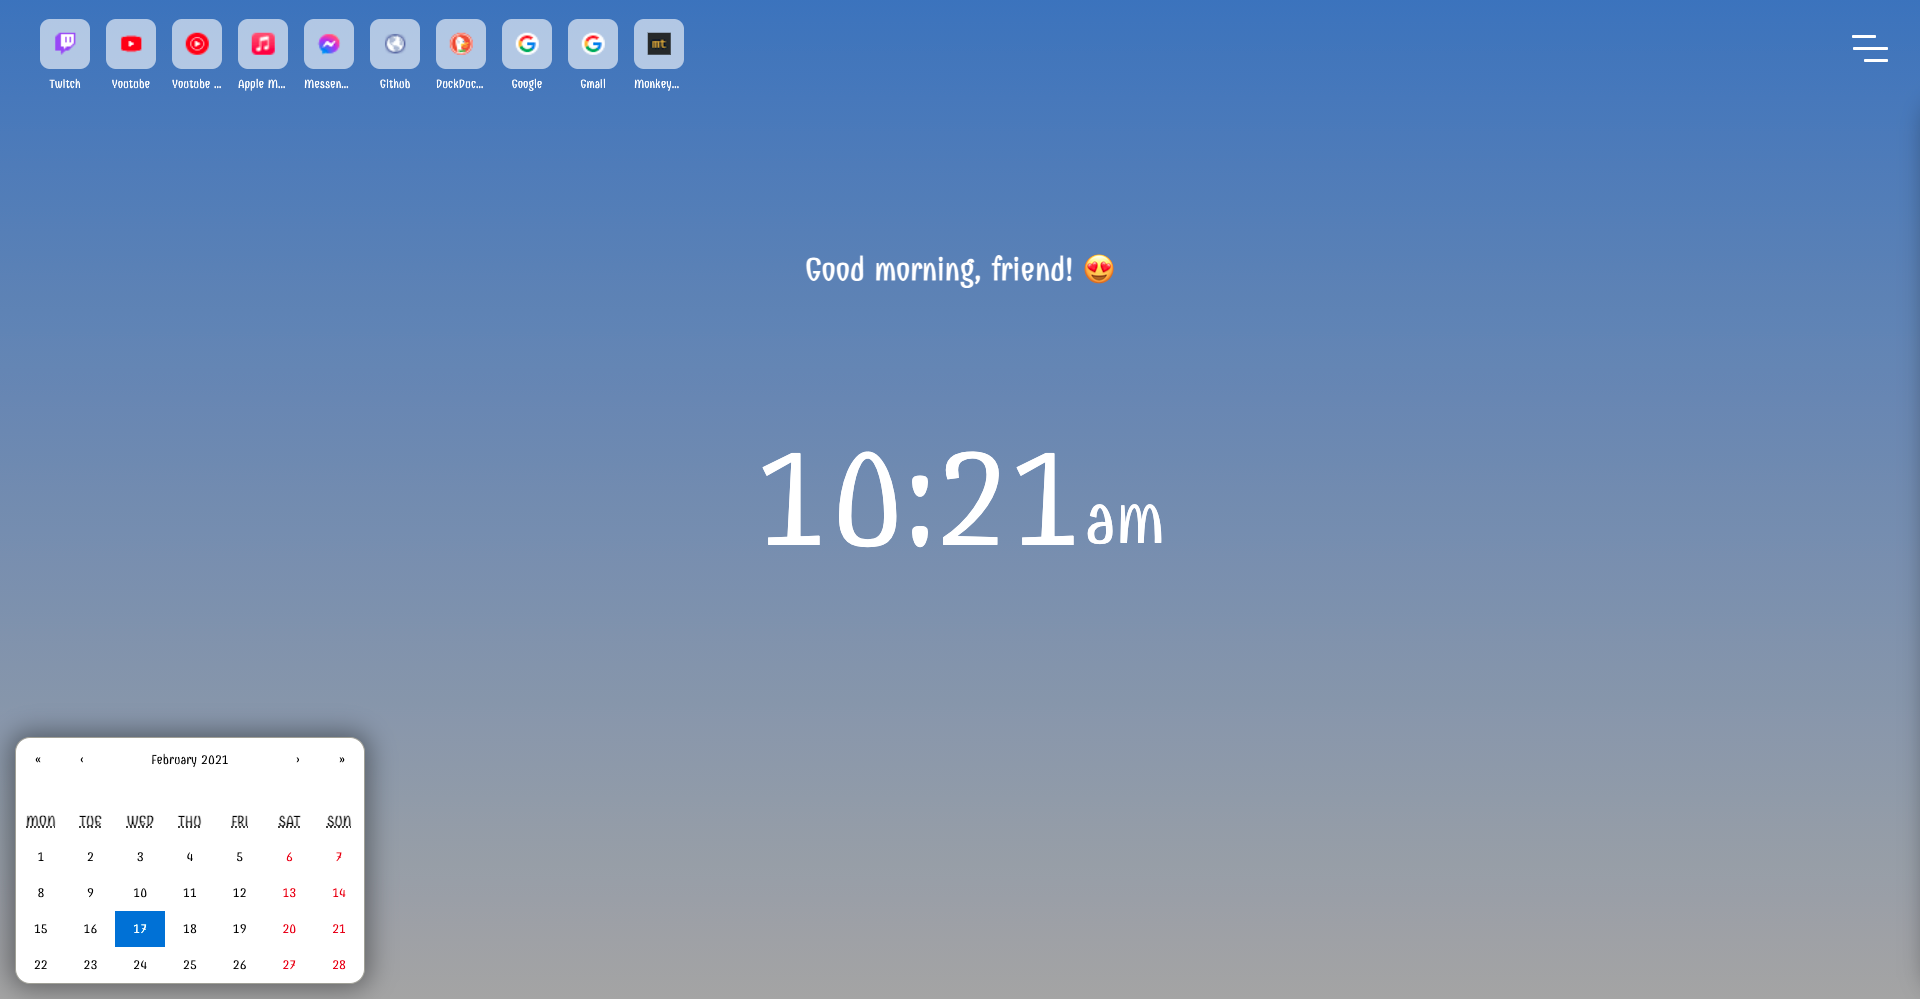
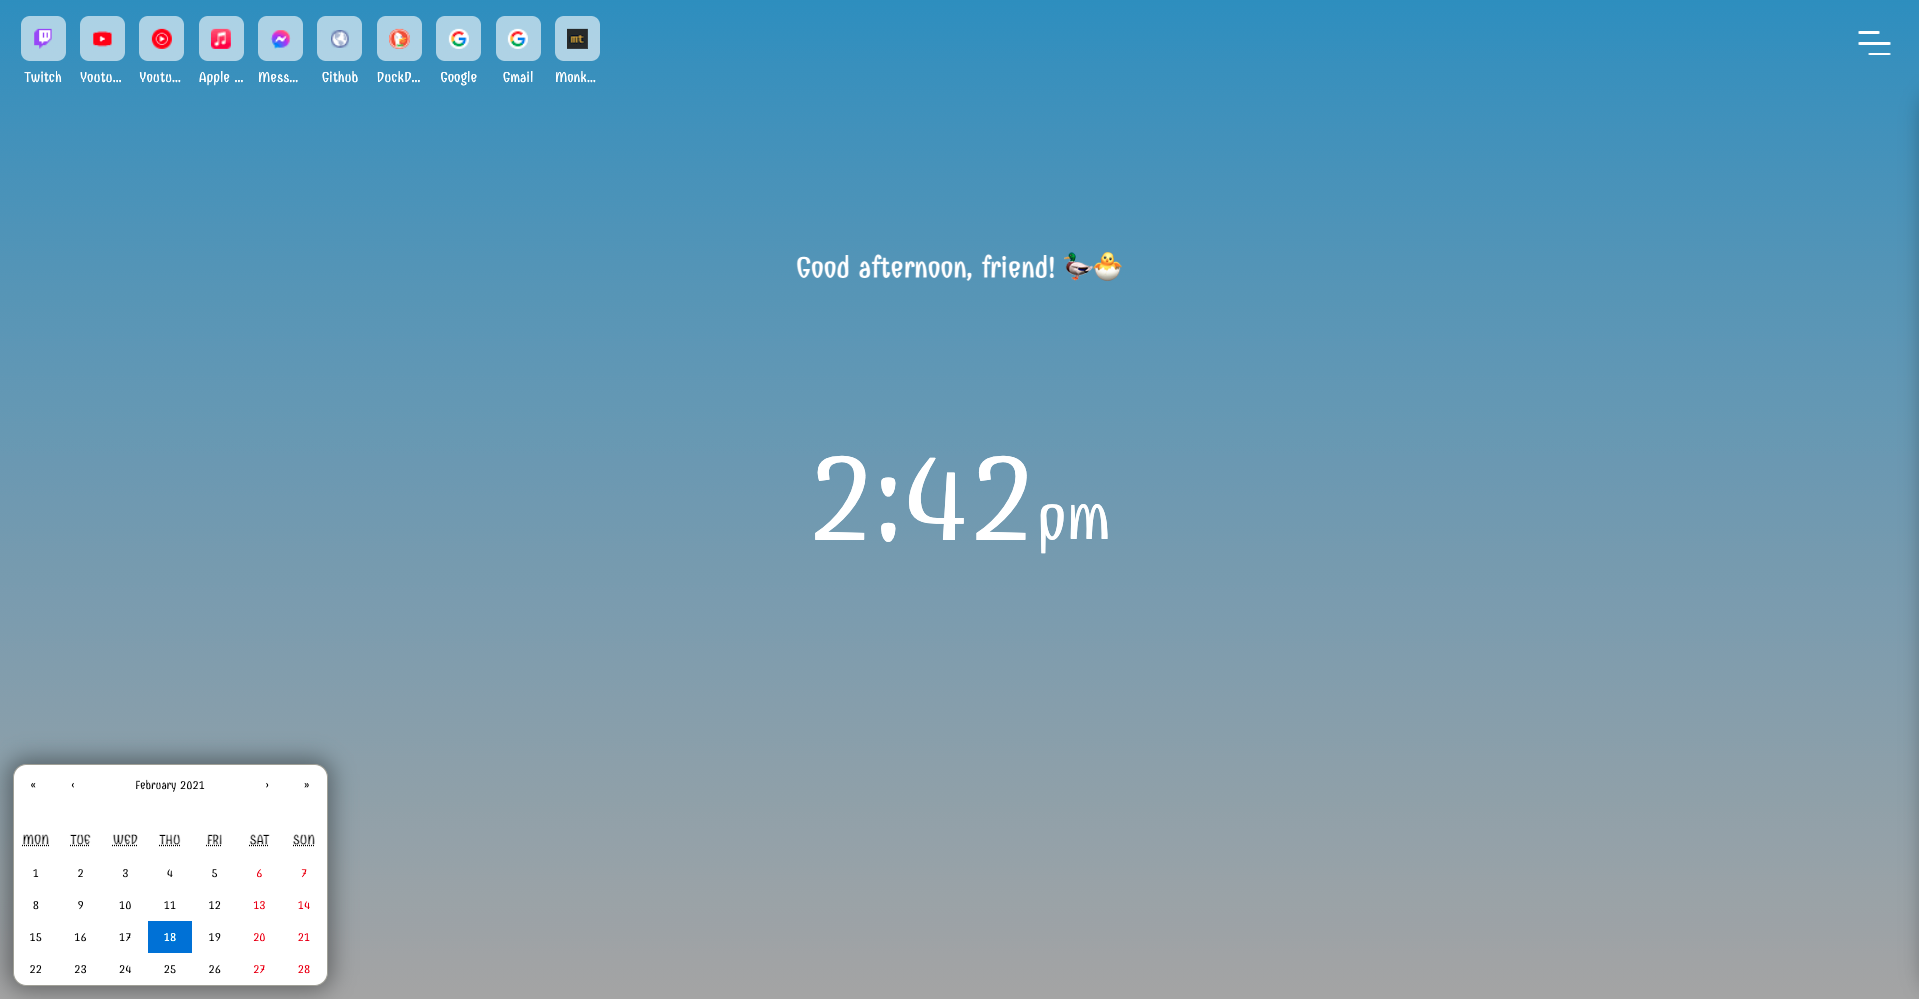
little changes

diff --git a/client/src/Components/Nav/Nav.js b/client/src/Components/Nav/Nav.js
@@ -53,7 +53,6 @@ const Nav = ({ favorites }) => {
 		<>
 			<nav>
 				<section className='favorites'>
-					
 					{favorites.map((favorite, i) => {
 						return(
 							<Favorite key={i} name={favorite.name} url={favorite.url} />

diff --git a/client/src/Components/Nav/style/Nav.scss b/client/src/Components/Nav/style/Nav.scss
@@ -13,7 +13,7 @@ nav {
    -ms-user-select: none;
 
    .favorites {
-      margin: 0 2rem;
+      margin: 0 1rem;
       height: 75px;
       width: 100%;
       display: flex;

diff --git a/client/src/Components/Nav/style/Nav.css b/client/src/Components/Nav/style/Nav.css
@@ -12,7 +12,7 @@ nav {
   -ms-user-select: none;
 }
 nav .favorites {
-  margin: 0 2rem;
+  margin: 0 1rem;
   height: 75px;
   width: 100%;
   display: flex;

diff --git a/README.md b/README.md
@@ -55,9 +55,10 @@
 * [x] Update sample photos
 * [x] ~~Settings scroll in Chrome and Firefox...~~
 * [ ] Add my logo what brings to the marketing side or whatever
-* [ ] Marketing side...?
-   * [ ] Figma design making for a pattern
-   * [ ] A full user guide
+* [x] Marketing side...?
+   * [x] Figma design making for a pattern
+   * [x] A full user guide
+   * https://ducktor-homepage.vercel.app/
 * [ ] After exporting make the changes instead of a simple reload
 * [ ] Slidable/scrollable favorite list (right-letf)
 * [ ] Settings component clean up
